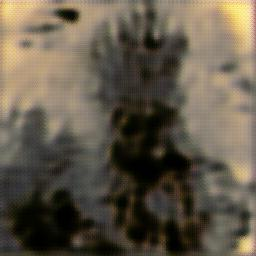
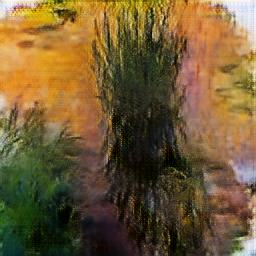
Update

diff --git a/main.py b/main.py
@@ -2,9 +2,8 @@ import matplotlib.pyplot as plt
 import torch
 import torch.nn as nn
 import torch.optim as optim
-
-from torchvision import transforms
 from torch.utils.data import DataLoader
+from torchvision import transforms
 from tqdm import tqdm
 
 from config import config
@@ -220,9 +219,6 @@ plt.show()
 ph = tqdm(loader, leave=True)
 # %%
 for i, (monet, photo) in enumerate(ph):
-    if i == 10:
-        break
-
     with torch.no_grad():
         pred_monet = gan.g_ptm(photo.to("cuda")).cpu().detach()
     pred_monet = unnorm(pred_monet)

diff --git a/config/config.py b/config/config.py
@@ -2,7 +2,7 @@ import torch
 
 
 DEVICE = torch.device("cuda" if torch.cuda.is_available() else "cpu")
-NUM_EPOCHS = 1
+NUM_EPOCHS = 50
 BATCH_SIZE = 5
 NUM_WORKERS = 0
 LEARNING_RATE = 2e-4
